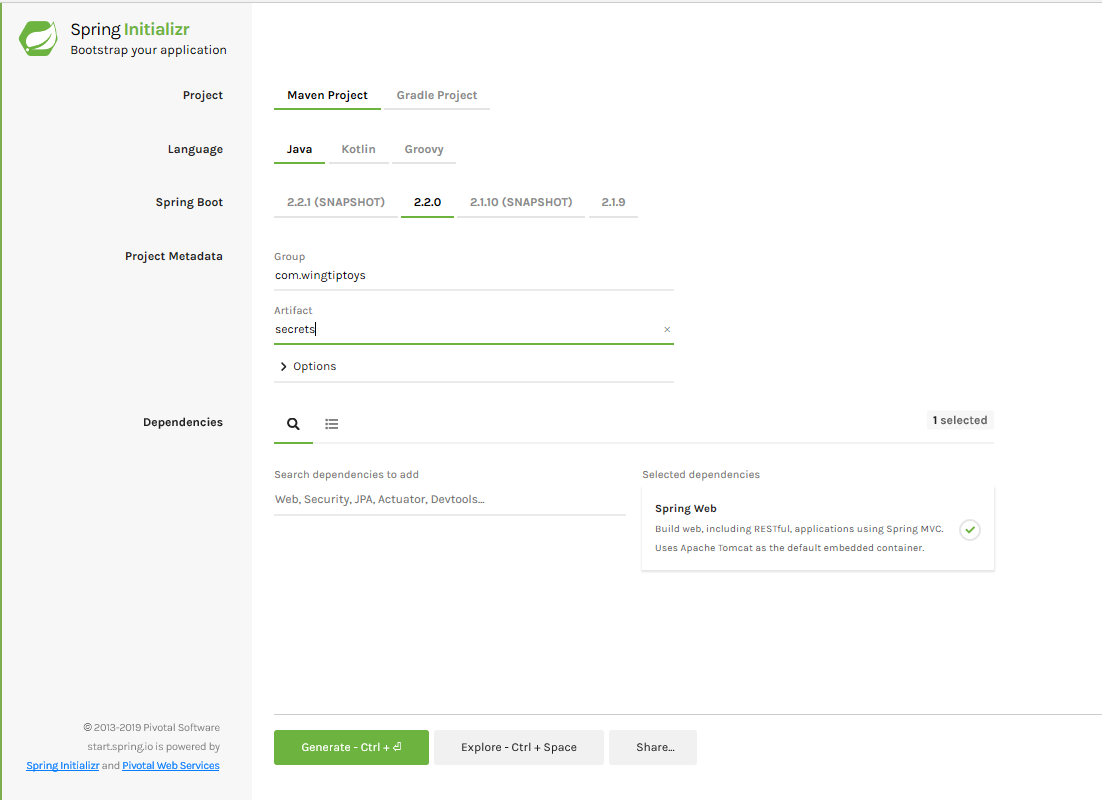
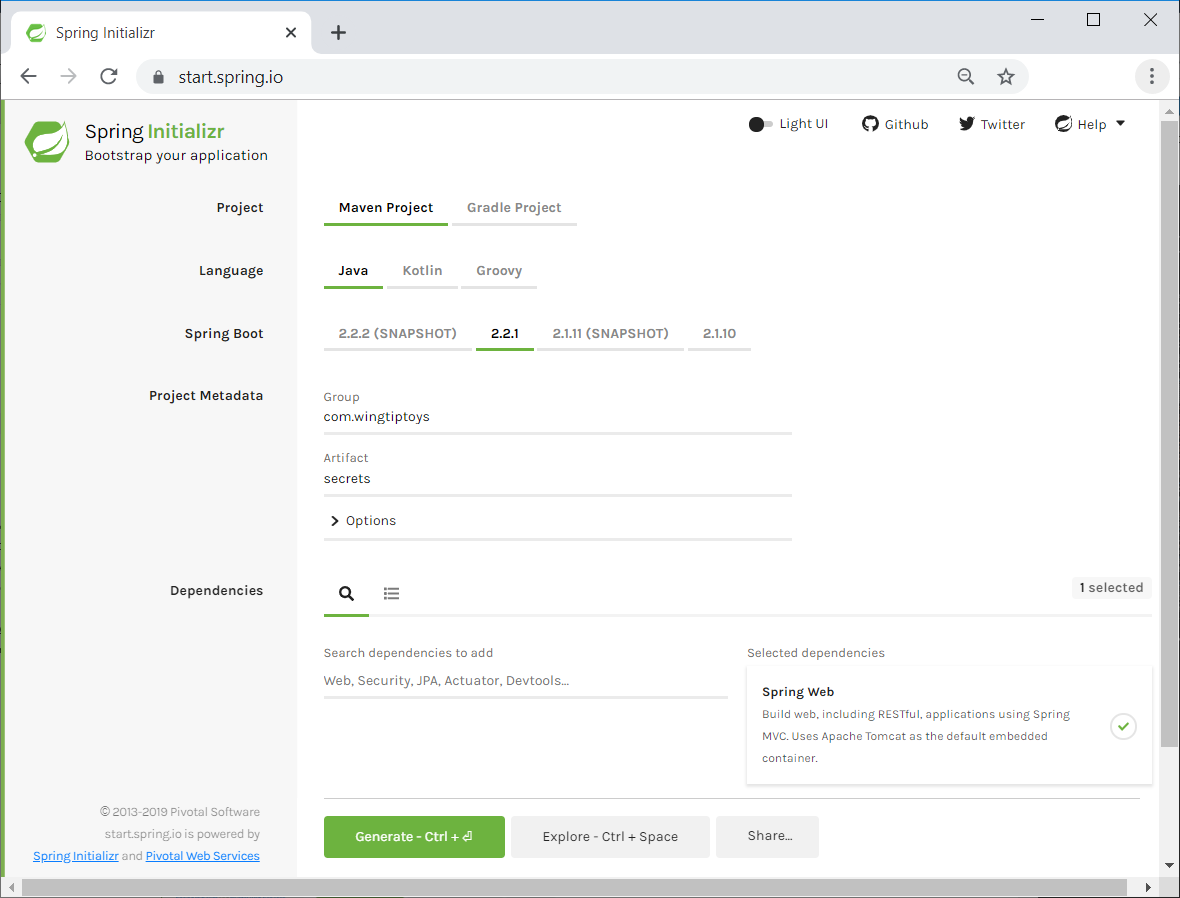
Change image to include browser.  Add intro sentences to numbered procedures.

diff --git a/java/spring-framework/configure-spring-boot-starter-java-app-with-azure-key-vault.md b/java/spring-framework/configure-spring-boot-starter-java-app-with-azure-key-vault.md
@@ -4,9 +4,6 @@ description: Learn how to configure a Spring Boot Initializer app with the Azure
 services: key-vault
 documentationcenter: java
 author: bmitchell287
-manager: jeanpaul.Connock
-editor: ''
-ms.assetid:
 ms.author: brendm
 ms.date: 10/29/2019
 ms.devlang: java
@@ -17,8 +14,6 @@ ms.workload: identity
 ---
 
 # How to use the Spring Boot Starter for Azure Key Vault
-
-## Overview
 
 This article demonstrates creating an app with the **[Spring Initializr]** that uses the Spring Boot Starter for Azure Key Vault to retrieve a connection string that is stored as a secret in a key vault.
 
@@ -31,6 +26,8 @@ The following prerequisites are required in order to complete the steps in this 
 * [Apache Maven](http://maven.apache.org/), version 3.0 or later.
 
 ## Create an app using Spring Initializr
+
+The following procedure creates the application using Spring Initializr.
 
 1. Browse to <https://start.spring.io/>.
 
@@ -47,6 +44,8 @@ The following prerequisites are required in order to complete the steps in this 
 1. When prompted, download the project to a path on your local computer.
 
 ## Sign into Azure
+
+The following procedure authenticates the user in Azure CLI.
 
 1. Open a command prompt.
 
@@ -90,6 +89,8 @@ Follow the instructions to complete the sign-in process.
    ```
 
 ## Create a new Azure Key Vault
+
+The following procedure creates and initializes the key vault.
 
 1. Create a resource group for the Azure resources you will use for your key vault; for example:
 
@@ -237,6 +238,8 @@ Follow the instructions to complete the sign-in process.
 
 ## Configure and compile your app
 
+Use the following procedure to configure and compile your application.
+
 1. Extract the files from the Spring Boot project archive files that you downloaded earlier into a directory.
 
 2. Navigate to the *src/main/resources* folder in your project and open the *application.properties* file in a text editor.
@@ -290,6 +293,8 @@ Follow the instructions to complete the sign-in process.
 6. Save and close the Java file.
 
 ## Build and test your app
+
+Use the following procedure to test your application.
 
 1. Navigate to the directory where the *pom.xml* file for your Spring Boot app is located:
 
